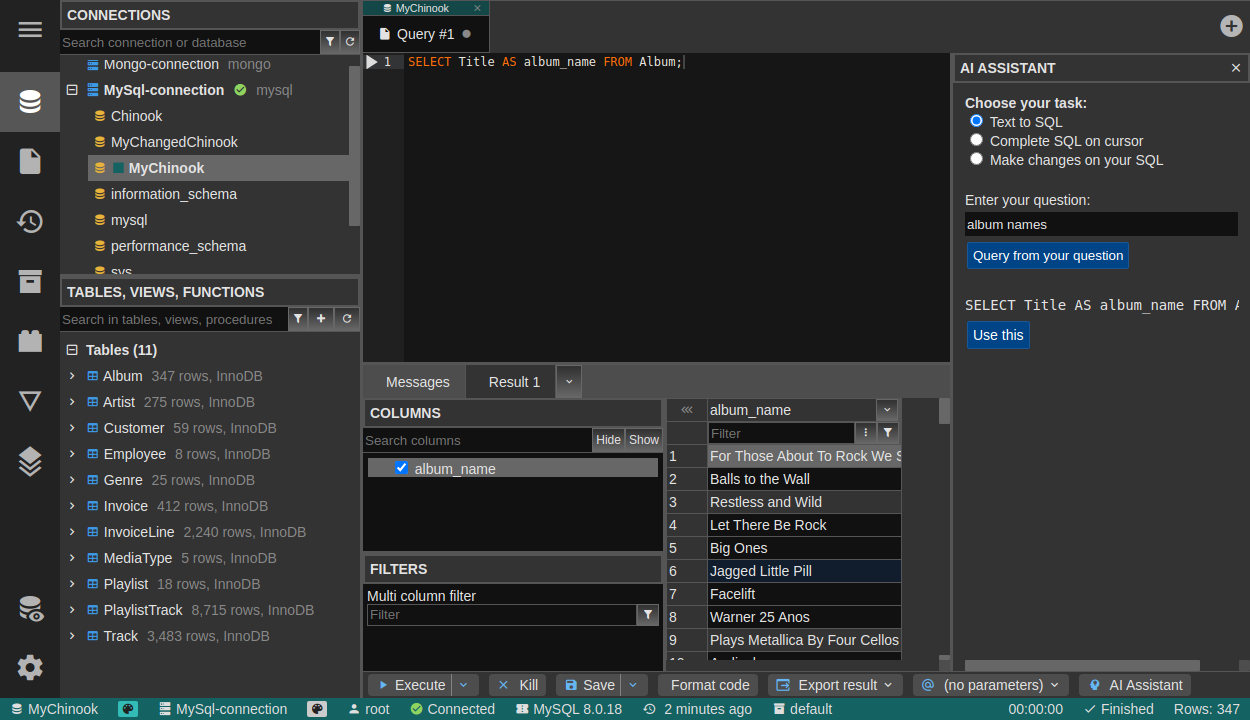
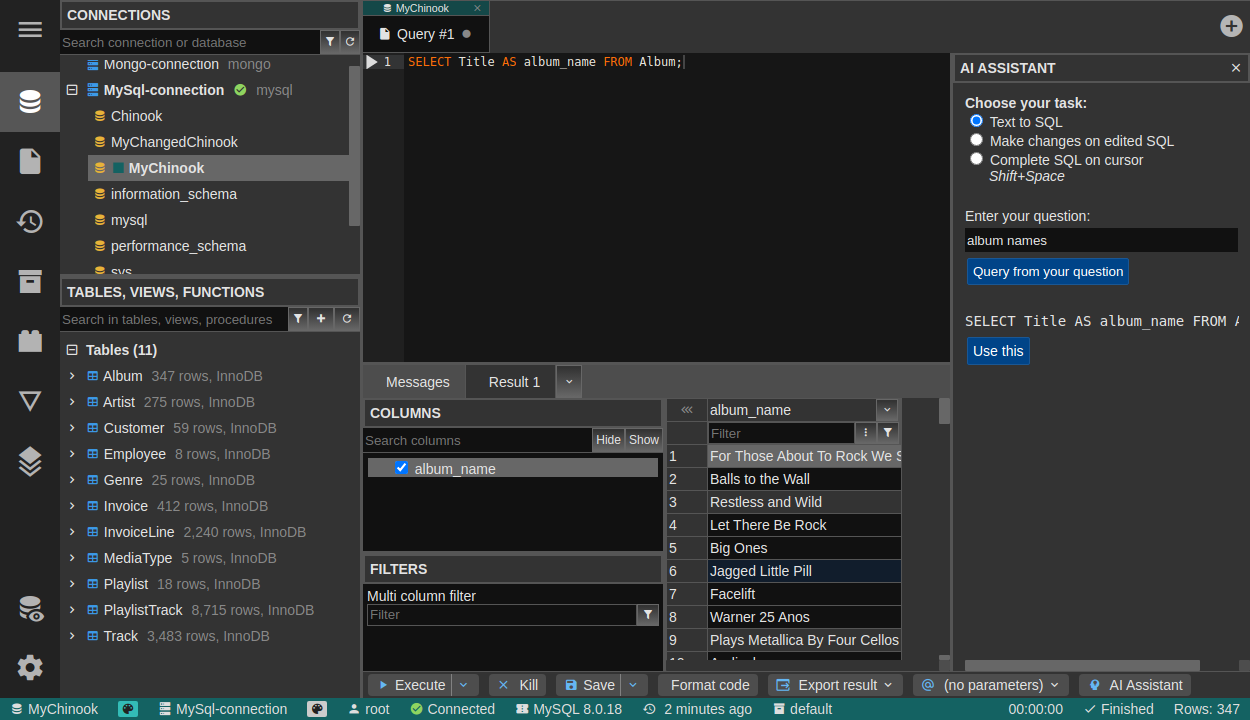
new version info

Changed region(s): [[0.7488, 0.1833, 0.9984, 0.5194]]

diff --git a/content/blog/2025-02-14-6-2-0-ai-assistant.md b/content/blog/2025-02-14-6-2-0-ai-assistant.md
@@ -1,0 +1,91 @@
+---
+layout: post
+title: Version 6.2.0 - AI Assistant, Cassandra support
+categories: development
+date: 2025-02-14 10:00:00
+---
+
+I am happy to announce new release of DbGate - 6.2.0.
+
+This release brings two important highlights:
+* Long awaited Apache Cassandra support (for all editions)
+* AI Assistant for query console (for Premium only)
+
+<!--more--> 
+
+## AI Assistant (Premium)
+AI assistant in DbGate helps you to create and modify SQL queries. It uses internally LLM gpt-4o-mini from OpenAI. Of course, you could  open ChhatGPT application and ask for the query directly, but DbGate's integration knows underlying DB model - table and column names, so result query will better fit to your database.
+
+As a first step, DbGate asks you for your consent about sending table and columns names to DbGate's AI service - wihtout this AI assistant will now work. We respect your privacy, which is why DbGate will never send any of your database information anywhere without your consent.
+
+After this, AI assistant offers 3 jobs:
+- **Text to SQL** - you write query in natural language, DbGate will generate SQL query respecting current database schema
+- **Complete SQL on cursor** - DbGate will try to generate next fragment of your query
+- **Make changes on your SQL** - in case you have already any query, you could write task in natural language and DbGate will generate new query
+
+<img src="/themeshots/aiassistant-light.png" alt="AI assistant" width="800px" />
+
+## Apache Cassandra support
+Apache Cassandra support is for all editions - is part of free and open-source product. We support almost all scenarious as in other databases:
+* Data browsing, filtering and edition
+* Table editor
+* Data import and export
+
+Cassandra has lot of specifics, eg. it doesn't support foreign keys - so master/detail views and lookups will not work.
+
+## Team premium edition improvements
+We also made some improvements and bug fixes for team premium edition and administration interface. Also there are new posibilities, how to configure internal database (eg. you use Azure managed identity). Azure managed identity is also supported for regular Azure SQL connections under Team Premium.
+
+## Full changelog after 6.1.0 version
+
+### 6.2.0
+- ADDED: Query AI Assistant (Premium)
+- ADDED: Cassandra database support
+- ADDED: XML cell data view
+- FIXED: Filtering by value in Oracle #1009
+- FIXED: Operand type clash: uniqueidentifier is incompatible with int #565
+- FIXED: UX in administration
+- FIXED: Error reporting of broken connections (sometimes it caused infinite loading of data grid)
+- ADDED: Azure managed identity support (Team Premium)
+- ADDED: Expanded JSON cell view
+- CHANGED: Open real executed query, when datagrid shows loading error
+
+### 6.1.6
+- FIXED: Hotfix build process for premium edition
+
+### 6.1.5
+- FIXED: Serious security hotfix (for Docker and NPM, when using LOGIN and PASSWORD environment variables or LOGIN_PASSWORD_xxx)
+- no changes for desktop app and for Team premium edition, when using storage DB
+
+### 6.1.4
+- CHANGED: Show Data/Structure button in one place #1015
+- ADDED: Data view coloring (every second row) #1014
+- ADDED: Pin icon for tab in preview mode (#1013)
+- FIXED: Pin icon misplaced #1007
+- ADDED: Set client name when connecting to redis #1004
+- ADDED: Redis loading keys optimalization #1002
+- ADDED: Browse redis keys with preview with keyboard
+- FIXED: Cannot expand tables and views returned from search #1000
+- ADDED: Expand all/Collapse all/Expand document commands in MongoDB JSON view #976
+- ADDED: Configurable page size for MongoDB collection #976
+- ADDED: Redis - SSL connection
+- ADDED: Redis JSON format for String values #852
+
+### 6.1.3
+- FIXED: Fulltext search now shows correctly columns and SQL code lines
+- ADDED: Configuration of SSH tunnel local host (IPv4 vs IPv6). Should fix majority of SSH tunnel problems
+- FIXED: Handled SSH tunnel connection error, now it shows error instead of connecting forever
+- ADDED: Support of triggers (SQLite)
+- ADDED: Create, drop trigger 
+- ADDED: Support for MySQL scheduled events
+- FIXED: Cannot connect to DB using askUser/askPassword mode #995
+- FIXED: Filtering in Oracle #992
+- ADDED: Open table in raw mode #991, #962
+- ADDED: Introduced E2E Cypress tests, test refactor
+
+### 6.1.1
+- ADDED: Trigger support (SQL Server, PostgreSQL, MySQL, Oracle)
+- FIXED: PostgreSQL and Oracle export #970
+- FIXED: Cursor Becomes Stuck When Escaping "Case" #954
+- CHANGED: Defualt search criteria for tables are names only
+- FIXED: Search in packed list

diff --git a/content/docs/env-variables.md b/content/docs/env-variables.md
@@ -29,7 +29,7 @@ These variables are available only in Premium edition.
   * ADMIN_PASSWORD - password for administrator. Administration is available on URL https://dbgate_url/admin.html. If password is not defined and STORAGE_DATABASE is defined, DbGate asks for admin password at first.
   * DBGATE_LICENSE - license key for DbGate. Please contact sales@dbgate.eu for trial license. If not defined, DbGate Premium asks for license at first. DbGate Community doesn't require any license.
 
-### Additional connection params of storage (now available only in BETA)
+### Additional connection params of storage
   * STORAGE_SOCKET_PATH - socket path for storage connection
   * STORAGE_DATABASE_URL - database URL for storage connection
   * STORAGE_AUTH_TYPE - authentication type for storage connection. Values are the same as for AUTH_TYPE_xxx variable
